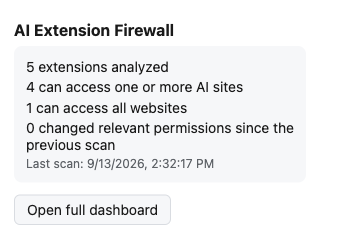
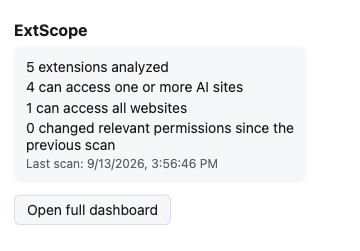
Rename product to ExtScope (was "AI Extension Firewall")
Renamed across every user-visible and internal surface: manifest.json
and package.json name, popup/dashboard/onboarding titles and headings,
the exported Markdown report heading and its download filenames,
README/CONTRIBUTING/LICENSE/RELEASING/store-listing copy, CI's
release-artifact naming (extscope.zip, extscope-build), and the
internal chrome.storage.local key prefix (extscope.snapshot.*,
extscope.settings.*) plus the dev-mock's storage keys — safe to change
since nothing has shipped to real users yet.

Left tests/fixtures/dummy-chrome-extension's manifest, test file/tmp
naming, and the original ai-extension-firewall-mvp-plan.md untouched
except where they referenced the product by name — the plan doc is
the historical spec as given and stays as-is.

Verified the rename didn't break anything by rerunning the full
chain: typecheck, lint, 50 unit tests, build, and all 8 real-Chromium
integration tests (which also incidentally re-confirm the rename
end-to-end, since they read the rendered page text). Re-captured the
Chrome Web Store screenshots and confirmed the new name renders
correctly both in the dashboard and on chrome://extensions.

Changed region(s): [[0.0306, 0.0837, 0.4889, 0.1673], [0.4278, 0.6135, 0.6111, 0.6693]]

diff --git a/src/ui/dashboard/Dashboard.tsx b/src/ui/dashboard/Dashboard.tsx
@@ -137,15 +137,15 @@ export function Dashboard() {
   return (
     <div style={{ maxWidth: 900, margin: "0 auto", padding: 24 }}>
       <div className="toolbar" style={{ justifyContent: "space-between" }}>
-        <h1 style={{ fontSize: 20 }}>AI Extension Firewall</h1>
+        <h1 style={{ fontSize: 20 }}>ExtScope</h1>
         <div className="toolbar">
           <button type="button" onClick={() => void performScan()} disabled={scanning}>
             {scanning ? "Scanning…" : "Rescan now"}
           </button>
-          <button type="button" onClick={() => downloadTextFile("ai-extension-firewall-report.md", exportToMarkdown(extensions, changes), "text/markdown")}>
+          <button type="button" onClick={() => downloadTextFile("extscope-report.md", exportToMarkdown(extensions, changes), "text/markdown")}>
             Export Markdown
           </button>
-          <button type="button" onClick={() => downloadTextFile("ai-extension-firewall-report.json", exportToJson(extensions, changes), "application/json")}>
+          <button type="button" onClick={() => downloadTextFile("extscope-report.json", exportToJson(extensions, changes), "application/json")}>
             Export JSON
           </button>
           <button type="button" onClick={() => setView("settings")}>

diff --git a/src/ui/dashboard/Onboarding.tsx b/src/ui/dashboard/Onboarding.tsx
@@ -8,7 +8,7 @@ export function Onboarding({ onComplete }: { onComplete: () => void }) {
 
   return (
     <div style={{ maxWidth: 640, margin: "0 auto", padding: 24 }}>
-      <h1>Welcome to AI Extension Firewall</h1>
+      <h1>Welcome to ExtScope</h1>
       <p>
         This extension shows you which of your other installed browser extensions may be able to read or
         modify conversations on AI websites such as ChatGPT, Claude, Gemini, Copilot, Perplexity, DeepSeek,
@@ -18,7 +18,7 @@ export function Onboarding({ onComplete }: { onComplete: () => void }) {
       <h2>Why the "management" permission?</h2>
       <p>
         Chrome's <code>management</code> permission is the only way to list your installed extensions and
-        their declared permissions. AI Extension Firewall uses it solely to read this metadata locally, and
+        their declared permissions. ExtScope uses it solely to read this metadata locally, and
         to let you disable or enable an extension from this dashboard.
       </p>
 

diff --git a/src/dev/chrome-mock.ts b/src/dev/chrome-mock.ts
@@ -21,8 +21,8 @@ interface MockManagementItem {
   optionsUrl?: string;
 }
 
-const STORAGE_KEY = "aief-dev-mock-storage";
-const EXTENSIONS_KEY = "aief-dev-mock-extensions";
+const STORAGE_KEY = "extscope-dev-mock-storage";
+const EXTENSIONS_KEY = "extscope-dev-mock-extensions";
 
 const DEFAULT_EXTENSIONS: MockManagementItem[] = [
   {
@@ -185,6 +185,6 @@ export function installChromeMock() {
 
   (globalThis as { chrome?: unknown }).chrome = mock;
   console.info(
-    "[AI Extension Firewall] Using mock chrome.* APIs for browser preview. This code never ships in the packaged extension."
+    "[ExtScope] Using mock chrome.* APIs for browser preview. This code never ships in the packaged extension."
   );
 }

diff --git a/index.html b/index.html
@@ -4,7 +4,7 @@
     <meta charset="UTF-8" />
     <meta http-equiv="refresh" content="0; url=/dashboard.html" />
     <meta name="viewport" content="width=device-width, initial-scale=1.0" />
-    <title>AI Extension Firewall — Dev Preview</title>
+    <title>ExtScope — Dev Preview</title>
     <style>
       body {
         font-family: system-ui, sans-serif;
@@ -33,7 +33,7 @@
     </style>
   </head>
   <body>
-    <h1>AI Extension Firewall — Dev Preview</h1>
+    <h1>ExtScope — Dev Preview</h1>
     <p>Redirecting to the dashboard… if nothing happens, use a link below.</p>
     <p>
       This page only exists for local browser preview (<code>npm run dev:web</code>). It is not part of

diff --git a/src/data/snapshot-repository.ts b/src/data/snapshot-repository.ts
@@ -1,8 +1,8 @@
 import type { ExtensionRecord, Snapshot, SnapshotChange } from "../core/types";
 
-const CURRENT_SNAPSHOT_KEY = "aief.snapshot.current";
-const PREVIOUS_SNAPSHOT_KEY = "aief.snapshot.previous";
-const LAST_CHANGES_KEY = "aief.snapshot.lastChanges";
+const CURRENT_SNAPSHOT_KEY = "extscope.snapshot.current";
+const PREVIOUS_SNAPSHOT_KEY = "extscope.snapshot.previous";
+const LAST_CHANGES_KEY = "extscope.snapshot.lastChanges";
 
 export async function getCurrentSnapshot(): Promise<Snapshot | undefined> {
   const result = await chrome.storage.local.get(CURRENT_SNAPSHOT_KEY);

diff --git a/src/data/settings-repository.ts b/src/data/settings-repository.ts
@@ -1,7 +1,7 @@
 import type { AiService } from "../core/types";
 
-const CUSTOM_AI_SERVICES_KEY = "aief.settings.customAiServices";
-const ONBOARDING_COMPLETE_KEY = "aief.settings.onboardingComplete";
+const CUSTOM_AI_SERVICES_KEY = "extscope.settings.customAiServices";
+const ONBOARDING_COMPLETE_KEY = "extscope.settings.onboardingComplete";
 
 export async function getCustomAiServices(): Promise<AiService[]> {
   const result = await chrome.storage.local.get(CUSTOM_AI_SERVICES_KEY);

diff --git a/src/export/markdown-exporter.ts b/src/export/markdown-exporter.ts
@@ -16,7 +16,7 @@ const EXPOSURE_LABEL: Record<ExtensionRecord["exposureLevel"], string> = {
 
 export function exportToMarkdown(extensions: ExtensionRecord[], changes: SnapshotChange[]): string {
   const lines: string[] = [];
-  lines.push("# AI Extension Firewall — Privacy Report");
+  lines.push("# ExtScope — Privacy Report");
   lines.push("");
   lines.push(`Generated: ${new Date().toISOString()}`);
   lines.push("");

diff --git a/tests/integration/extension.test.ts b/tests/integration/extension.test.ts
@@ -27,7 +27,7 @@ describe.skipIf(!existsSync(DIST_DIR))("packaged extension in real Chromium", ()
   let userDataDir: string;
 
   beforeAll(async () => {
-    userDataDir = mkdtempSync(join(tmpdir(), "aief-integration-"));
+    userDataDir = mkdtempSync(join(tmpdir(), "extscope-integration-"));
     context = await chromium.launchPersistentContext(userDataDir, {
       headless: false,
       args: [

diff --git a/src/ui/popup/Popup.tsx b/src/ui/popup/Popup.tsx
@@ -34,7 +34,7 @@ export function Popup() {
 
   return (
     <div style={{ width: 320, padding: 14 }}>
-      <h1 style={{ fontSize: 16 }}>AI Extension Firewall</h1>
+      <h1 style={{ fontSize: 16 }}>ExtScope</h1>
       {loading ? (
         <p>Scanning installed extensions…</p>
       ) : (

diff --git a/dashboard.html b/dashboard.html
@@ -3,7 +3,7 @@
   <head>
     <meta charset="UTF-8" />
     <meta name="viewport" content="width=device-width, initial-scale=1.0" />
-    <title>AI Extension Firewall — Dashboard</title>
+    <title>ExtScope — Dashboard</title>
   </head>
   <body>
     <div id="root"></div>

diff --git a/popup.html b/popup.html
@@ -3,7 +3,7 @@
   <head>
     <meta charset="UTF-8" />
     <meta name="viewport" content="width=device-width, initial-scale=1.0" />
-    <title>AI Extension Firewall</title>
+    <title>ExtScope</title>
   </head>
   <body>
     <div id="root"></div>

diff --git a/docs/RELEASING.md b/docs/RELEASING.md
@@ -24,9 +24,9 @@ unpacked), and it's also exactly what gets zipped for the Chrome Web Store uploa
 
 ```bash
 cd dist
-zip -r ../ai-extension-firewall.zip .
+zip -r ../extscope.zip .
 cd ..
-shasum -a 256 ai-extension-firewall.zip
+shasum -a 256 extscope.zip
 ```
 
 CI does this on every push to `main` (see `.github/workflows/ci.yml`) and uploads both the zip and a
@@ -38,17 +38,17 @@ reproducible and verifiable without trusting a maintainer's local machine.
 1. Bump `version` in both `package.json` and `manifest.json` (they must match).
 2. Commit, tag (`git tag vX.Y.Z`), push the tag.
 3. Download the CI build artifact for that commit (or build locally per above — the output should match).
-4. Create a GitHub Release for the tag, attach `ai-extension-firewall.zip`, and paste the SHA-256
-   checksum from `ai-extension-firewall.zip.sha256` into the release notes so anyone downloading it can
+4. Create a GitHub Release for the tag, attach `extscope.zip`, and paste the SHA-256
+   checksum from `extscope.zip.sha256` into the release notes so anyone downloading it can
    verify they got the same bytes CI built.
 5. Upload the same zip to the Chrome Web Store developer dashboard.
 
 ## Verifying a downloaded release
 
 ```bash
-shasum -a 256 -c ai-extension-firewall.zip.sha256
+shasum -a 256 -c extscope.zip.sha256
 ```
 
-This should print `ai-extension-firewall.zip: OK`. If it doesn't match the checksum published in the
+This should print `extscope.zip: OK`. If it doesn't match the checksum published in the
 GitHub Release notes, do not install it — the file was corrupted, modified, or came from a different
 build than the one being claimed. Report a mismatch per [SECURITY.md](../SECURITY.md).
